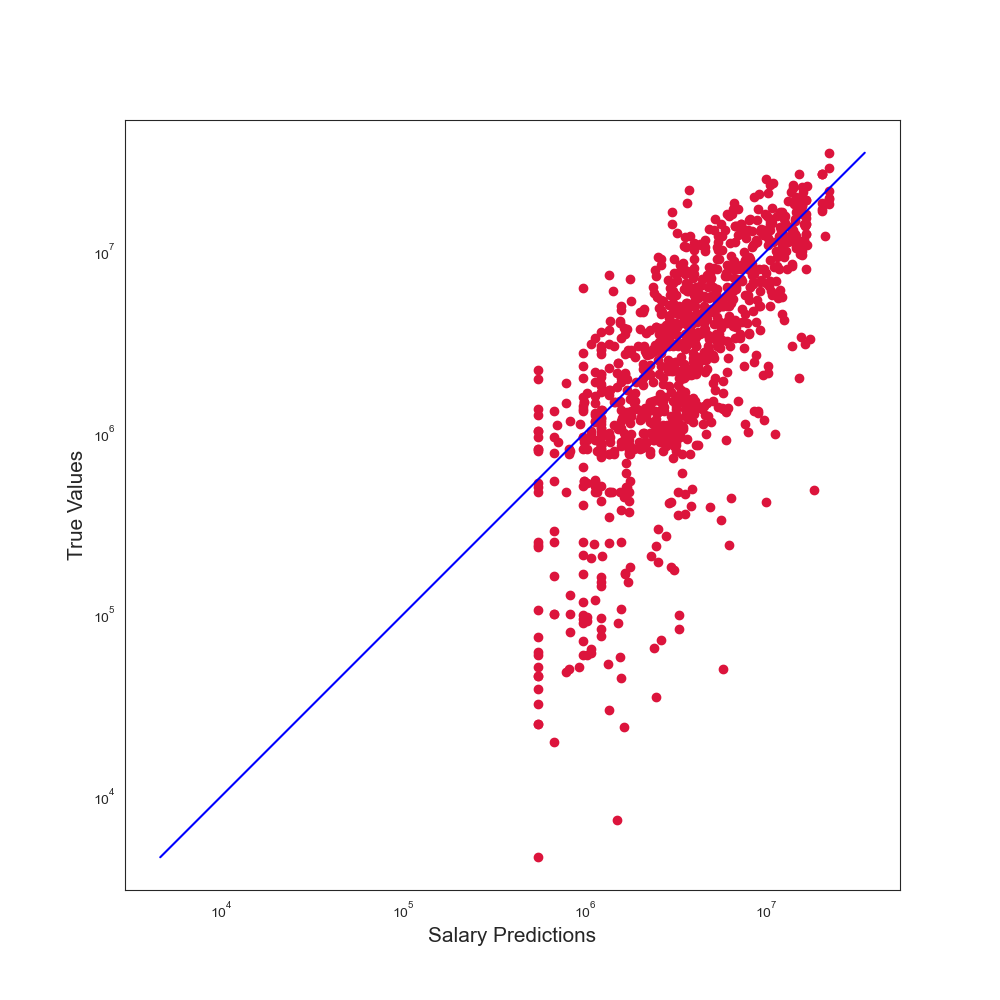
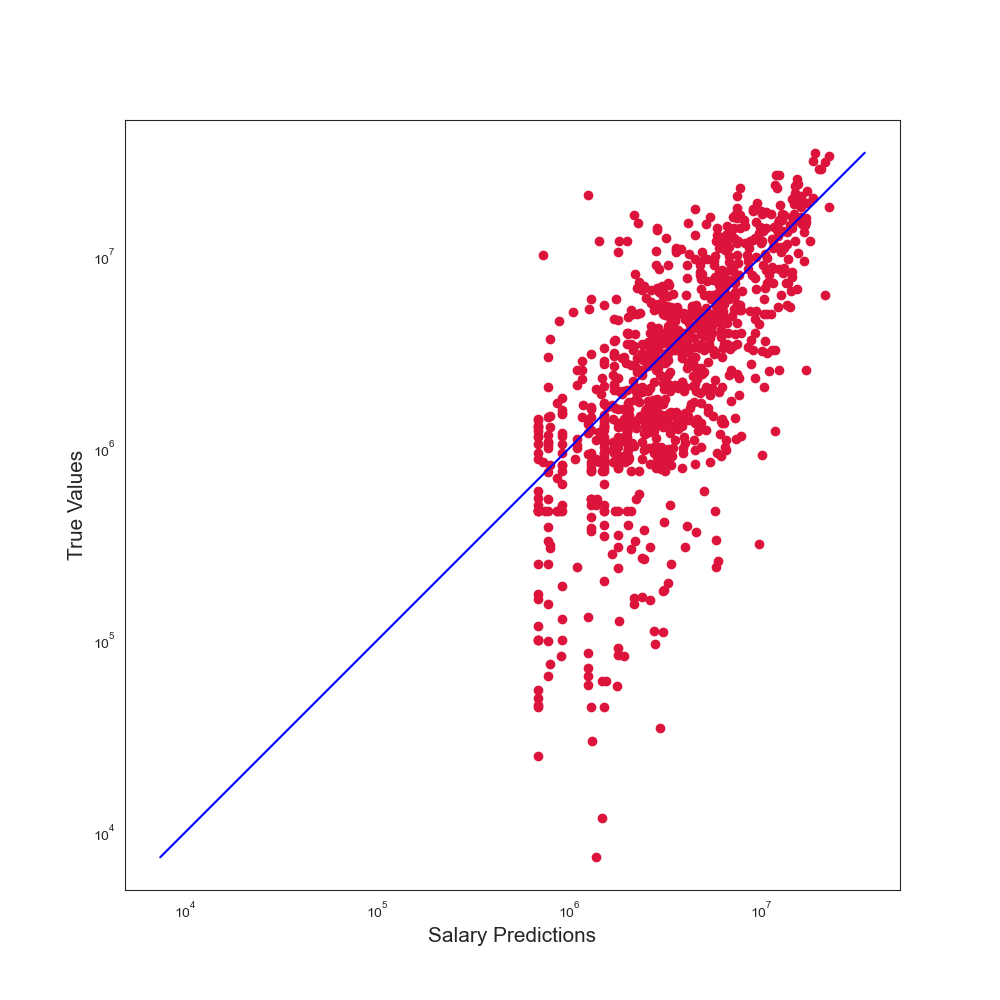
feature importance plot added

diff --git a/data_analytics/nba_salary_analysis.py b/data_analytics/nba_salary_analysis.py
@@ -23,7 +23,7 @@ import matplotlib.pyplot as plt
 import pip
 pip.main(['install','seaborn'])
 import seaborn as sns
-
+from IPython.display import display
 
 salary_schema = types.StructType([
     types.StructField('PLAYER_NAME', types.StringType()),
@@ -89,7 +89,7 @@ def main(salary_path):
     # main logic starts here
     #salary_path = "/Users/sarahhu/Desktop/SFUgrad/CMPT732/732Project/732-project/data/clean_data/salary_etl"
     salary = spark.read.option("delimiter", ",").option("header", "true").csv(salary_path, schema=salary_schema)
-    salary = salary.drop('PLAYER_ID')
+    salary = salary.drop('PLAYER_ID','PLAYER_NAME')
     salary = salary.na.fill(value=0)
 
     salary_df = salary.toPandas()
@@ -122,12 +122,12 @@ def main(salary_path):
                    'sum(OREB)', 'sum(DREB)', 'sum(REB)', 'sum(AST)', 'sum(STL)', 'sum(BLK)', 'sum(TO)', 'sum(PF)',\
                    'sum(PTS)', 'sum(PLUS_MINUS)', 'sum(ifminute)', 'avg(seconds)', 'sum(seconds)', 'age',\
                    'player_height', 'player_weight', 'injuries'], outputCol='features')
-    indexer1 = StringIndexer(inputCol="PLAYER_NAME", outputCol="PLAYER_NAME_index", handleInvalid="keep")
+    # indexer1 = StringIndexer(inputCol="PLAYER_NAME", outputCol="PLAYER_NAME_index", handleInvalid="keep")
     # regressor = RandomForestRegressor(featuresCol='features', labelCol='salary', numTrees=3, maxDepth=5, seed=42)
     # regressor = GeneralizedLinearRegression(featuresCol="features", labelCol="salary", regParam=2, maxIter=5) #0.56
     # regressor = GBTRegressor(featuresCol='features', labelCol='salary') #0.52
     regressor = RandomForestRegressor(featuresCol='features', labelCol='salary', numTrees=4, maxDepth=6, seed=42)  # 0.60
-    nba_pipeline = Pipeline(stages=[assembler, indexer1, regressor])
+    nba_pipeline = Pipeline(stages=[assembler, regressor])
     nba_model = nba_pipeline.fit(train)
     predictions = nba_model.transform(validation)
     r2_evaluator = RegressionEvaluator(predictionCol='prediction', labelCol='salary', metricName='r2')
@@ -136,8 +136,27 @@ def main(salary_path):
     rmse = rmse_evaluator.evaluate(predictions)
     print('Validation score (R*2) for salary model:', r2)
     print('Validation score (RMSE) for salary model:', rmse)
-
+    print('parameters:', nba_model.stages[-1])
     print('importance:', nba_model.stages[-1].featureImportances)
+
+    feature_list = []
+    for col in salary.columns:
+        if col == 'salary':
+            continue
+        else:
+            feature_list.append(col)
+    importances = nba_model.stages[-1].featureImportances
+    x_values = list(range(len(importances)))
+    plt.figure()
+    plt.bar(x_values, importances, orientation='vertical')
+    plt.xticks(x_values, feature_list, rotation=40)
+    plt.ylabel('Importance')
+    plt.xlabel('Feature')
+    plt.title('Feature Importances')
+    plt.savefig('web-presentation/front-end/public/salary_featureImportance.png')
+
+    #display(nba_model.stages[-1])
+    #plt.savefig(nba_model.stages[-1])
 
     plot_validation_result(predictions.select("prediction").collect(), predictions.select("salary").collect())
     plt.savefig('web-presentation/front-end/public/salary_predictions.png')
